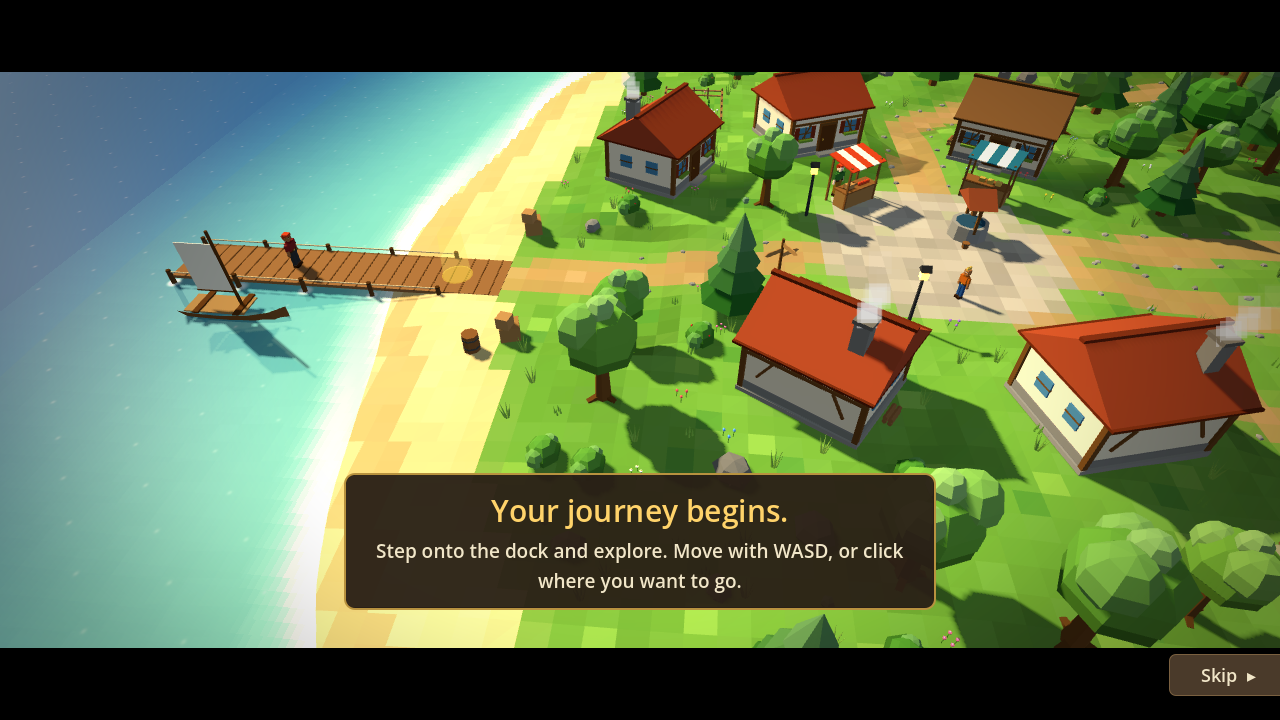
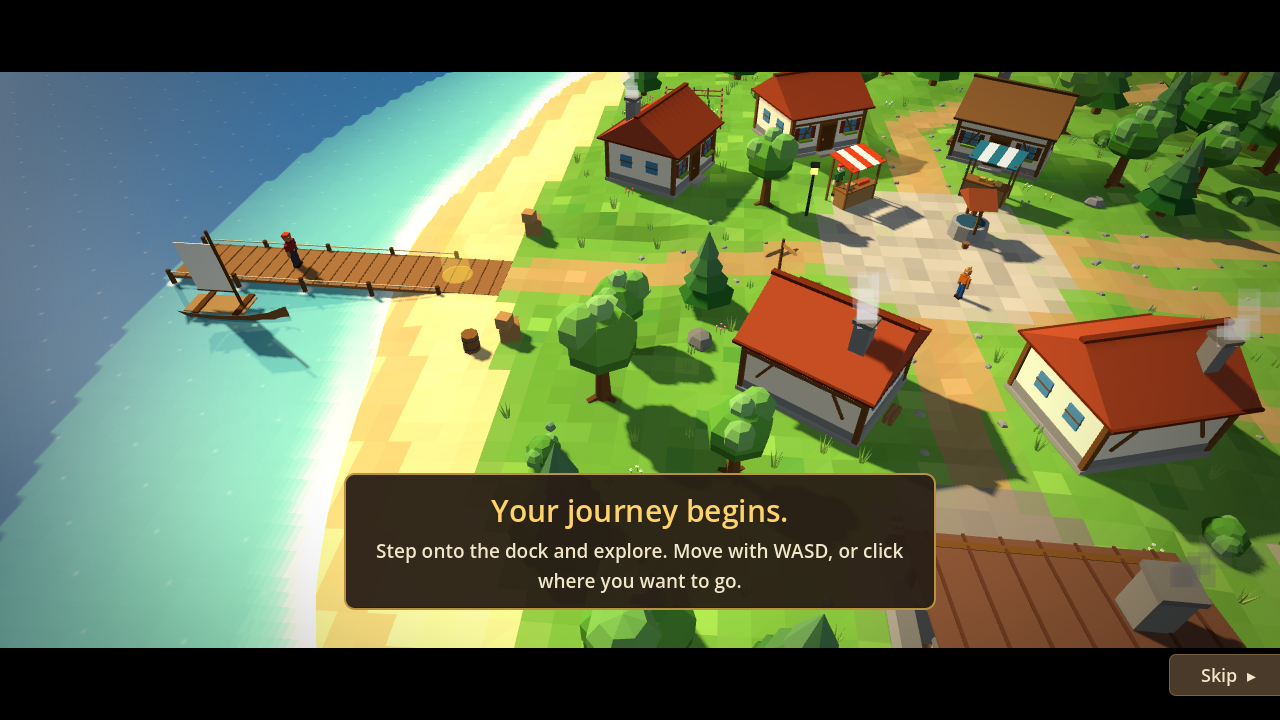
Record M7 verification: screenshots, fixed views and plan checklist
Claude-Session: https://claude.ai/code/session_013yDGLy1rtX7aAre5XQubCE

diff --git a/EmbervaleRebuild/VERIFICATION.md b/EmbervaleRebuild/VERIFICATION.md
@@ -153,3 +153,33 @@ pending interaction that gets stuck now says "You can't reach that."
   the M6 run even on untouched stages. Generation was trimmed (path bounding-box rejects, deep-sea
   texels skipped in the depth bake) to keep margin.
 - Screenshots: `docs/screenshots/flow/` (whole flow) and `docs/screenshots/revamp/` (fixed views).
+
+## Milestone 7 — Mining, Smithing and the first quest
+
+- Spec: [SPEC_SMITHING.md](../SPEC_SMITHING.md). Import/parse clean (82 scripts compile).
+- All suites pass: 132 tests (`world`, `flow`, `tutorial`, `polish`, `graphics`, `skills`, `playthrough`,
+  `skills_playthrough`, `smithing`, `quest_playthrough`). `smithing` (18 tests) covers the formulas
+  and recipe data, pickaxe and level requirements, one ore per swing with rubble and 8 s / 15 s
+  respawns, cancellation without grants, a full pack, the steel pickaxe, the furnace panel
+  (disabled recipes with reasons), bronze smelting loops, iron failures that consume ore, smithing
+  with Make 1 / Make all, the hammer requirement, freed-slot capacity, Brann before and after the
+  tutorial, declining and accepting, all-or-nothing tool hand-out with retry and replacement,
+  the hand-in transaction (coins, XP, stage and save in one snapshot), no replay after Continue,
+  coin overflow refusing the hand-in, the shop additions, `quest.quests` validation (unknown ids,
+  clamped stages, unknown/duplicate flags, malformed lists, missing key) and the seven-skill panel.
+- No-teleport quest playthrough from a saved, completed tutorial through the menu's Continue:
+  Brann -> quarry (copper, tin) -> furnace -> anvil -> Brann, by clicks and keys only, zero jumps;
+  diagnostic pacing (accelerated) movement 42 s, actions 9 s.
+- World suite: new `test_resource_nodes_reachable` checks every tree and mining rock can be worked
+  from the navmesh. It exposed a pre-existing bug: the shoreline boundary search started at 30 m and
+  stopped in the pond, so boundary walls ran from the pond to the coast and sealed off the land
+  north-east of it (two willows there were unreachable once the layout shifted). The search now
+  marches past the pond.
+- Perf report (`docs/perf_m7.txt`): warm generation 1102 ms (cold 1487 ms); worst view 234 draw
+  calls (High, smithy), every preset under the 260 target and 450 limit. Villagers now cast shadows
+  from torso and legs only (head and arms cost three shadow-pass calls each per split), which took
+  the smithy view from 264 to 234.
+- Screenshots: `docs/screenshots/m7/` (fixed views, including `smithy` and `quarry`) and
+  `docs/screenshots/flow/19_brann.png` to `22_smithing.png`.
+- **Not done (needs a person or hardware):** completing the quest by hand and recording human
+  pacing, listening to the new mine/anvil sounds, live motion review and a native Windows smoke test.

diff --git a/PLAN.md b/PLAN.md
@@ -202,12 +202,12 @@ Spec: [SPEC_SKILLS.md](SPEC_SKILLS.md).
 
 Spec: [SPEC_SMITHING.md](SPEC_SMITHING.md).
 
-- [ ] K1 Mining and Smithing skills in `SkillData`/`SkillsManager`; Skills panel fits seven skills
-- [ ] K2 Quarry with copper, tin and iron rocks: pickaxe and level checks, one ore per swing, depletion and respawn
-- [ ] K3 Smithy (furnace, anvil, Brann) east of the plaza; crafting panel; smelting with iron failures; smithing recipes
-- [ ] K4 "The Smith's Apprentice": stages, checklist flags, tool hand-out and recovery, hand-in transaction, banner and fanfare
-- [ ] K5 New items and icons; Marla sells the steel pickaxe and hammer and buys the new goods
-- [ ] K6 Pickaxe/hammer animations with impacts, chips/sparks, furnace glow and smoke, sounds, minimap marks
-- [ ] K7 `quest.quests` save key with validation and defaults; checkpoints on quest events
-- [ ] Smithing suite + no-teleport quest playthrough; every earlier suite still passes
-- [ ] Perf: ≤ 260 draw calls in every view and preset, warm generation < 1.5 s
+- [x] K1 Mining and Smithing skills in `SkillData`/`SkillsManager`; Skills panel fits seven skills
+- [x] K2 Quarry with copper, tin and iron rocks: pickaxe and level checks, one ore per swing, depletion and respawn
+- [x] K3 Smithy (furnace, anvil, Brann) east of the plaza; crafting panel; smelting with iron failures; smithing recipes
+- [x] K4 "The Smith's Apprentice": stages, checklist flags, tool hand-out and recovery, hand-in transaction, banner and fanfare
+- [x] K5 New items and icons; Marla sells the steel pickaxe and hammer and buys the new goods
+- [x] K6 Pickaxe/hammer animations with impacts, chips/sparks, furnace glow and smoke, sounds, minimap marks
+- [x] K7 `quest.quests` save key with validation and defaults; checkpoints on quest events
+- [x] Smithing suite + no-teleport quest playthrough; every earlier suite still passes
+- [x] Perf: ≤ 260 draw calls in every view and preset, warm generation < 1.5 s
